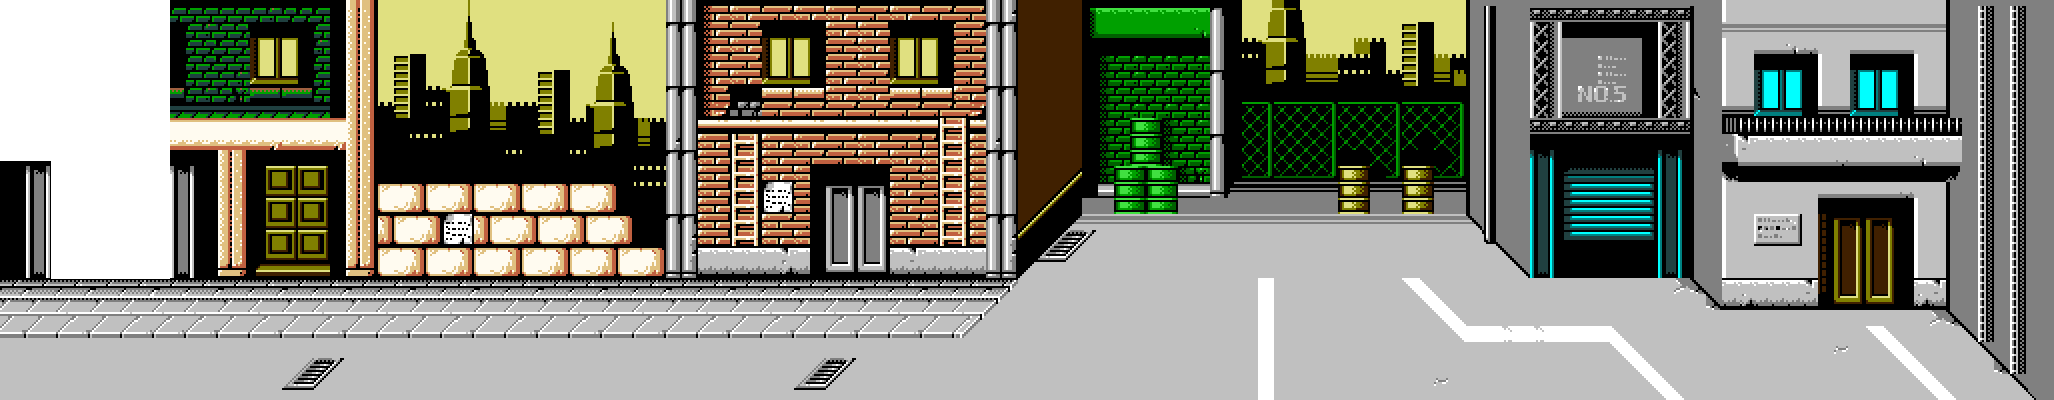
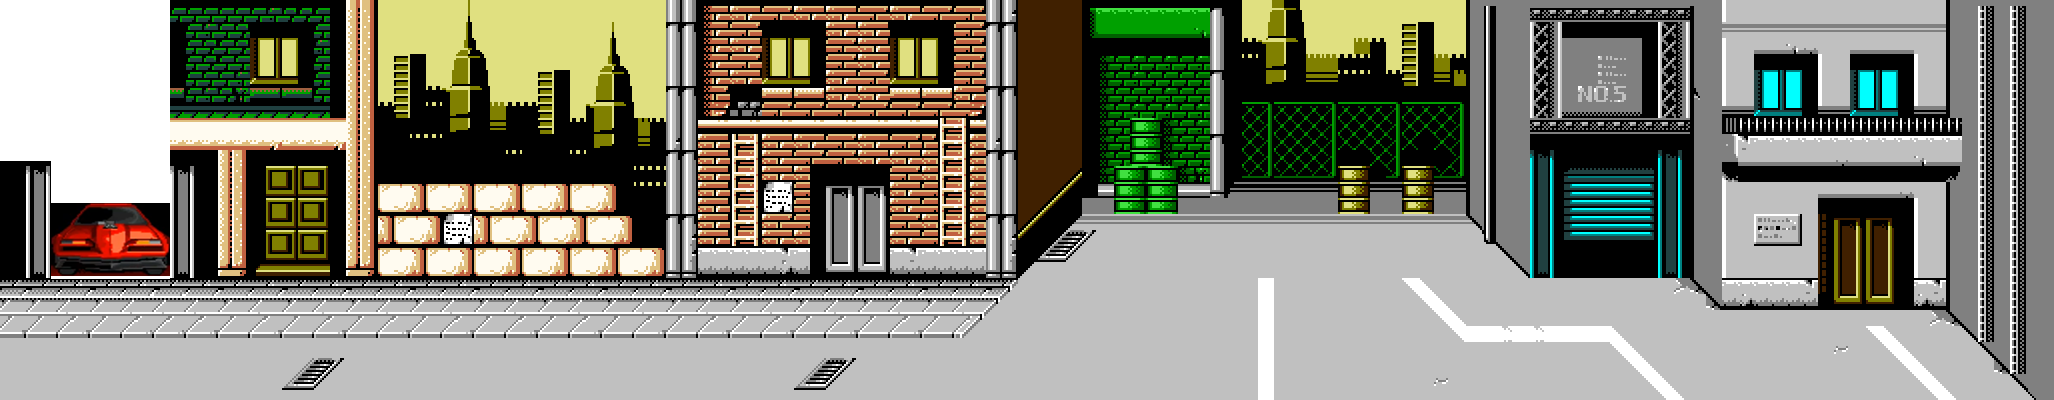
Double dragon level1 Billy inside garage

Changed region(s): [[0.0, 0.51, 0.0935, 0.69]]

diff --git a/LECTURES/ClassicArcadeGamesInPython/DoubleDragon/dd2.py b/LECTURES/ClassicArcadeGamesInPython/DoubleDragon/dd2.py
@@ -10,13 +10,20 @@ SCREEN_TITLE = "Double Python"
 class DoubleDragonPython(arcade.Window):
     def __init__(self):
         super().__init__(SCREEN_WIDTH, SCREEN_HEIGHT, SCREEN_TITLE)
-        self.background =  background.Background.from_file("resources/Mission1.png")
 
+        self.counter = 0
+        self.background =  background.Background.from_file("resources/Mission1.png")
         self.garage_door_y = 175
+
         door = arcade.Sprite()
         door.texture = arcade.load_texture("resources/door.png")
         door.center_x = 109
         door.center_y = self.garage_door_y
+
+        billy = arcade.Sprite()
+        billy.texture = arcade.load_texture("resources/billy1.png")
+        billy.center_x = 109
+        billy.center_y = self.garage_door_y - 15
 
         over_garage = arcade.Sprite()
         over_garage.texture = arcade.load_texture("resources/overGarage.png")
@@ -24,16 +31,23 @@ class DoubleDragonPython(arcade.Window):
         over_garage.center_y = 320
 
         self.bg_sprite_list = arcade.SpriteList()
+        self.bg_sprite_list.append(billy)
         self.bg_sprite_list.append(door)
         self.bg_sprite_list.append(over_garage)
 
     def on_update(self, delta_time):
-        print("update ")
+        self.counter += 1
+        print("update ", self.counter)
+        self.conditionally_move_garage_door()
 
     def on_draw(self):
         print("draw")
         self.background.draw()
         self.bg_sprite_list.draw()
+
+    def conditionally_move_garage_door(self):
+        if self.counter > 300 and self.counter < 800:
+            self.bg_sprite_list[1].center_y += 0.3
 
 def main():
     game = DoubleDragonPython()

diff --git a/LECTURES/ClassicArcadeGamesInPython/DoubleDragon/dd1.py b/LECTURES/ClassicArcadeGamesInPython/DoubleDragon/dd1.py
@@ -10,8 +10,6 @@ SCREEN_TITLE = "Double Python"
 class DoubleDragonPython(arcade.Window):
     def __init__(self):
         super().__init__(SCREEN_WIDTH, SCREEN_HEIGHT, SCREEN_TITLE)
-        self.counter = 0
-
         self.background =  background.Background.from_file("resources/Mission1.png")
 
         self.garage_door_y = 175
@@ -30,18 +28,12 @@ class DoubleDragonPython(arcade.Window):
         self.bg_sprite_list.append(over_garage)
 
     def on_update(self, delta_time):
-        self.counter += 1
-        print("update ", self.counter)
-        self.conditionally_move_garage_door()
+        print("update ")
 
     def on_draw(self):
         print("draw")
         self.background.draw()
         self.bg_sprite_list.draw()
-
-    def conditionally_move_garage_door(self):
-        if self.counter > 300 and self.counter < 800:
-            self.bg_sprite_list[0].center_y += 0.3
 
 def main():
     game = DoubleDragonPython()
